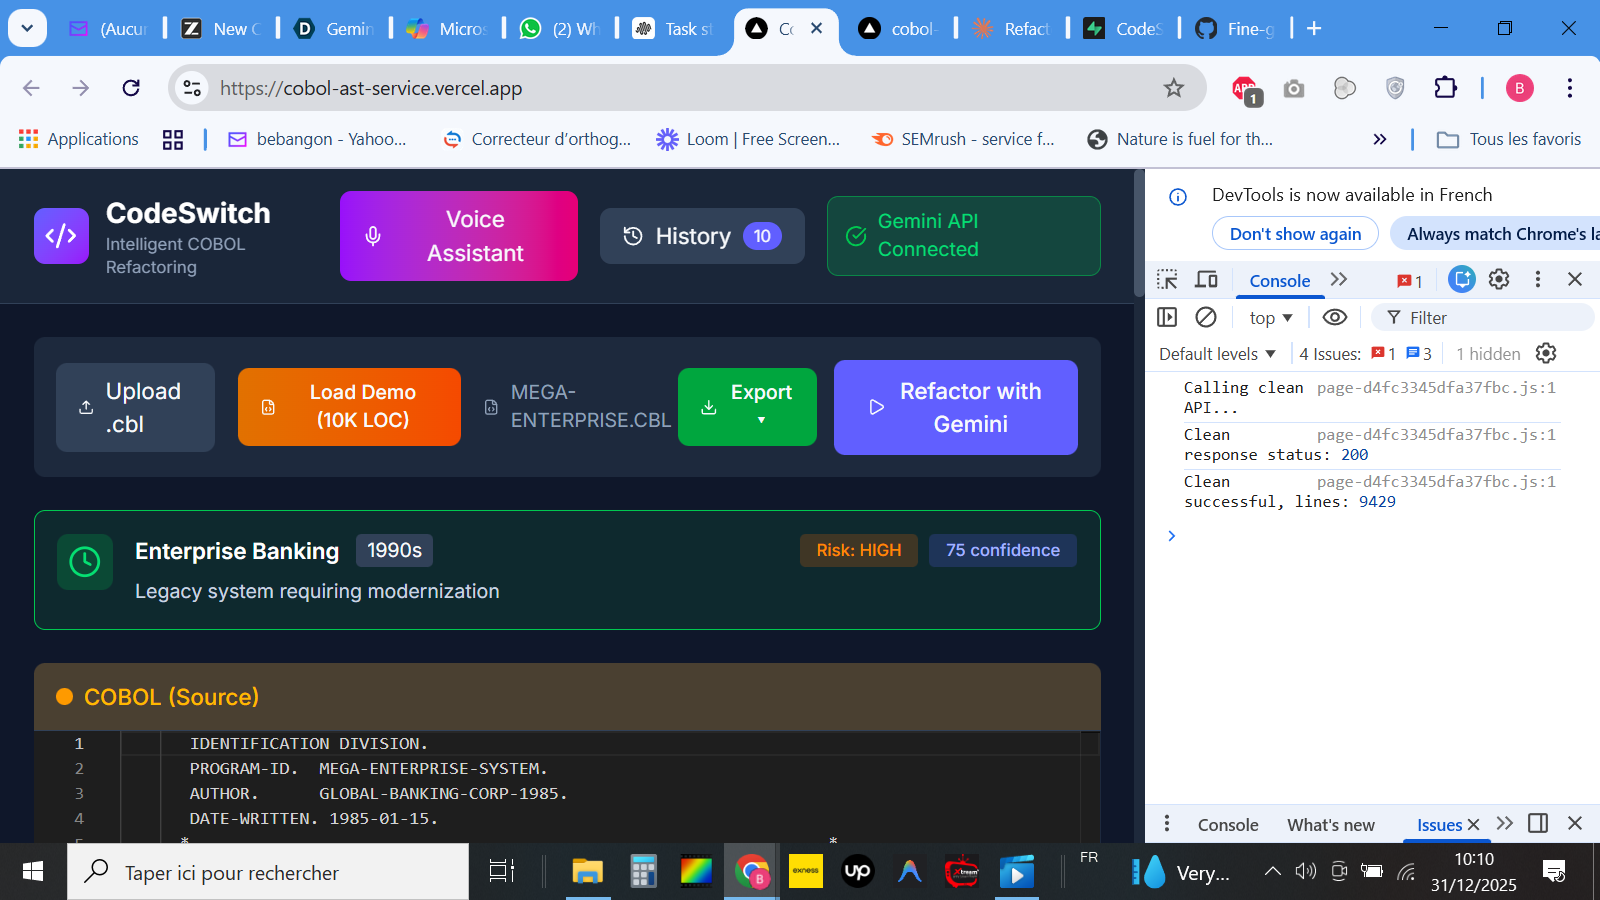
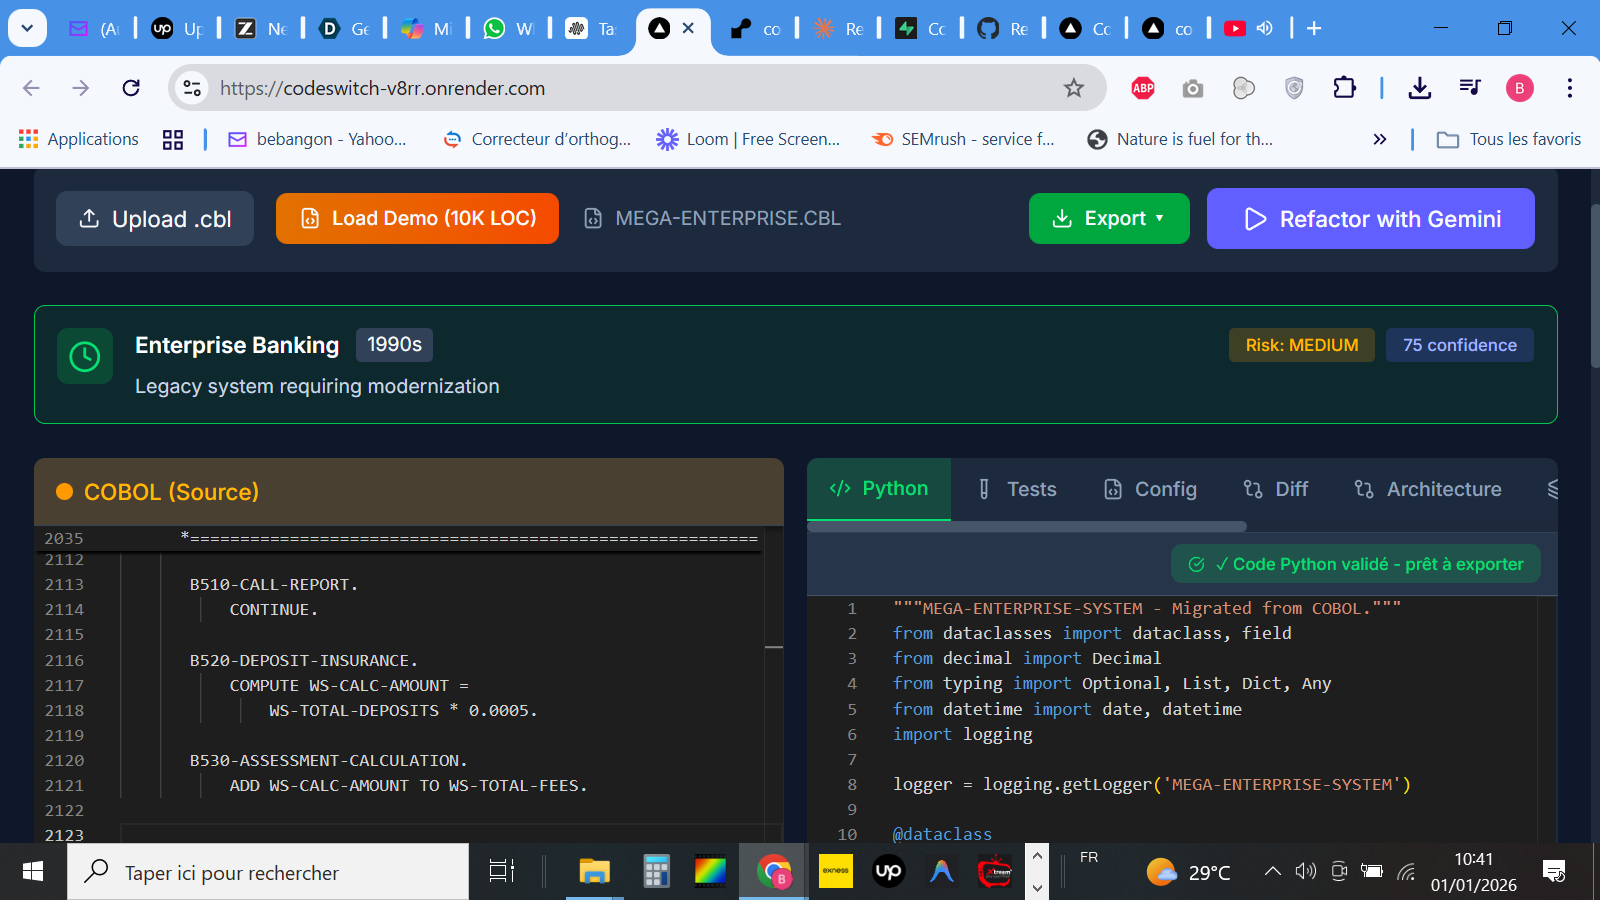
Message 351055014289572 - 1767260543

diff --git a/codeswitch-hackathon/app/api/analyse/route.ts b/codeswitch-hackathon/app/api/analyse/route.ts
@@ -813,17 +813,27 @@ ${cleanedValidatedCode}
       }
     }
 
-    // === ANALYSIS METADATA (generated locally to avoid timeout) ===
-    console.log(`[Analysis] Generating metadata locally...`);
+    // === ANALYSIS METADATA (generated dynamically) ===
+    console.log(`[Analysis] Generating metadata...`);
     const complexity = ast.metrics.cyclomaticComplexity > 100 ? 'HIGH' : ast.metrics.cyclomaticComplexity > 50 ? 'MEDIUM' : 'LOW';
     const effort = Math.ceil(ast.metrics.totalLines / 100);
+    
+    // Detect domain from COBOL content
+    const cobolLower = code.toLowerCase();
+    const detectedDomain = cobolLower.includes('bank') || cobolLower.includes('account') || cobolLower.includes('deposit') ? 'Banking & Finance' :
+                           cobolLower.includes('insurance') || cobolLower.includes('policy') || cobolLower.includes('claim') ? 'Insurance' :
+                           cobolLower.includes('inventory') || cobolLower.includes('warehouse') || cobolLower.includes('stock') ? 'Supply Chain' :
+                           cobolLower.includes('payroll') || cobolLower.includes('employee') || cobolLower.includes('salary') ? 'HR & Payroll' :
+                           cobolLower.includes('customer') || cobolLower.includes('order') || cobolLower.includes('invoice') ? 'CRM & Sales' :
+                           'Enterprise System';
+    
     const metadata = {
       summary: `Migration of ${ast.programId} - ${ast.metrics.totalLines} lines COBOL to Python`,
       business_context: { 
-        domain: 'Enterprise Banking', 
-        detected_year: '1990s', 
+        domain: detectedDomain, 
+        detected_year: ast.programId.includes('Y2K') ? '2000s' : '1990s', 
         is_obsolete: true,
-        regulatory_context: 'Legacy system requiring modernization'
+        regulatory_context: `${detectedDomain} legacy system requiring modernization`
       },
       issues: [
         'Large codebase requires thorough testing',
